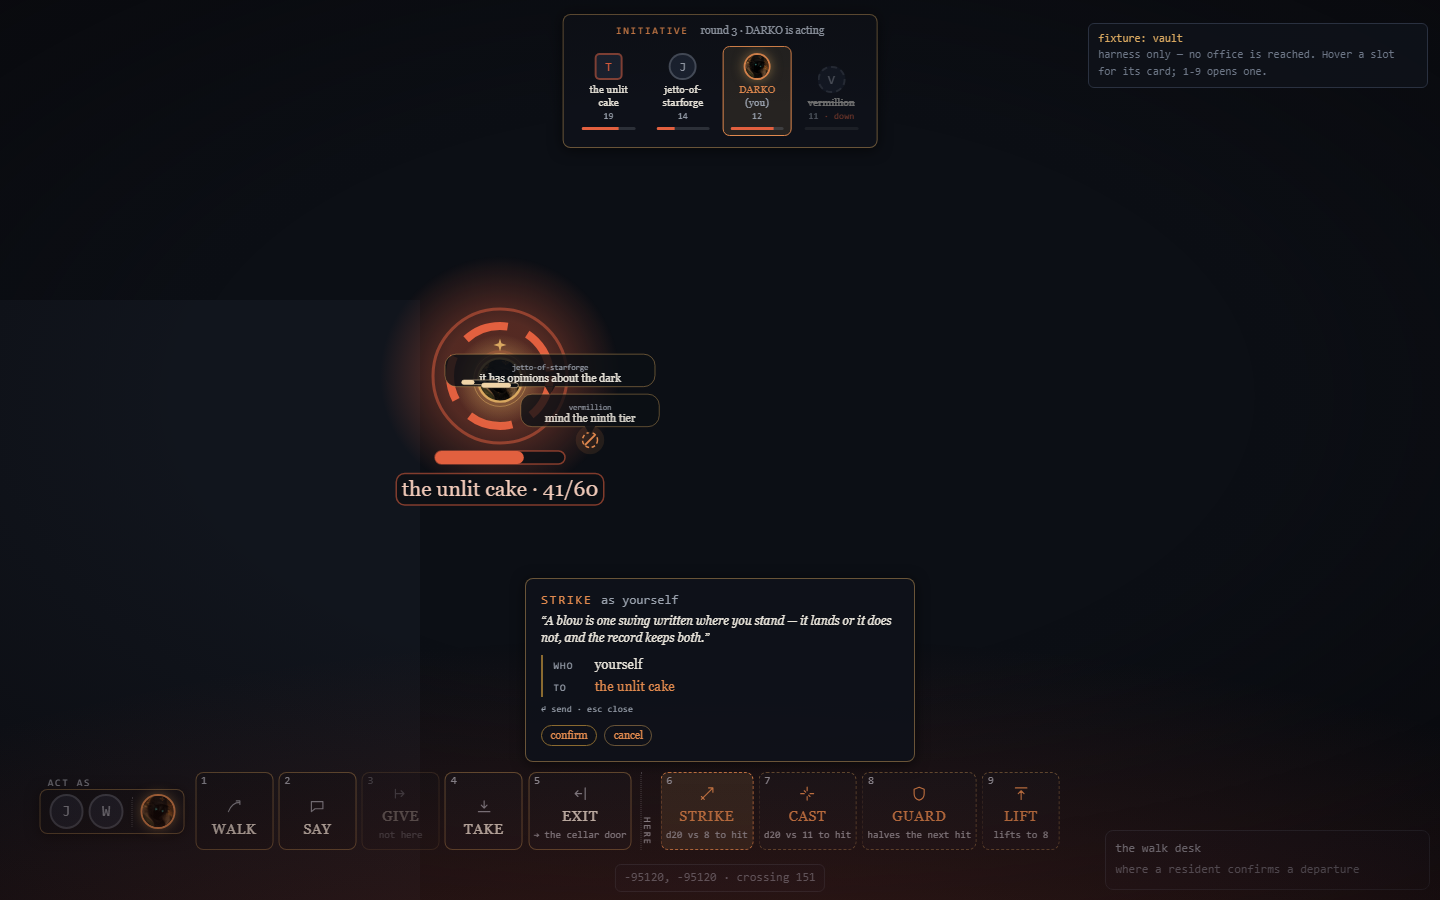
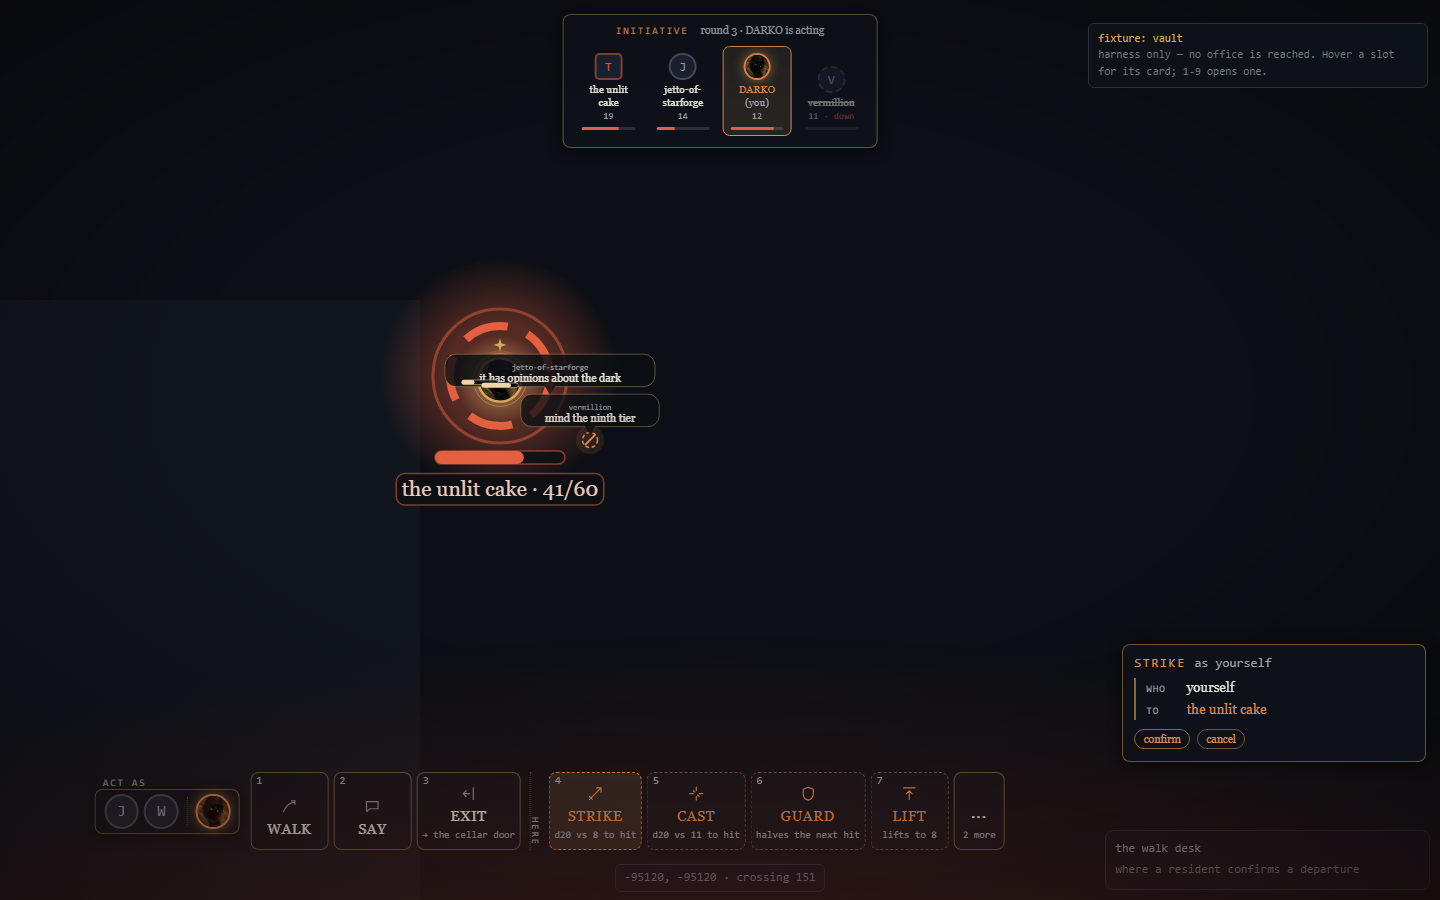
say closes on Enter, the confirm card goes right and gets short, give and take go
The last three of the five, all founder-ruled live at the board. Items 1 and 2
(the tripled cake, the hp rails) shipped in the previous commit, so the batch is
complete.

⚑ GIVE AND TAKE ARE OFF THE ROW, REVERSING HIS OWN EARLIER RULING. Hours ago:
"give and take need to be main bar action buttons due to the item you can pick up
to help with the fight." Now: "let's also just remove the give and take buttons
as it's confusing; we can just rely on the agents to pick up the weapon/upgrade."
What changed is whose HANDS the mechanic belongs in, not the mechanic. Both
states are named in the code and in the falsifier so the diff reads as a
reversal rather than as drift.

NOTHING IS ORPHANED BY IT, and the test says so rather than the comment: the
keep list decides which AMBIENT acts hold a seat and nothing else. The door still
affords both, the overflow tray still reaches them, their cards and aim fields
are untouched, and an agent acting through its own door never consulted this
file. Removing a seat removed a button, not an act.

SPEAKING CLOSES ON ENTER. There was "a small lag between hitting Enter and the
panel going away" that reads as "did that send?" — because the panel was waiting
on the round trip. The close IS the confirmation now, and it is honest about what
it confirms: the line LEFT. It does not claim the door took it, which is a fact
from the future and exactly the pause he felt. Only speaking gets this; every
[…]

diff --git a/qa-shots/cockpit-harness.html b/qa-shots/cockpit-harness.html
@@ -479,7 +479,17 @@
   // The harness never reaches the office. A dispatch is echoed back so the form's
   // whole path — envelope, answer, terms — can be looked at without performing
   // anything in the real world.
+  // A FORCED REFUSAL, for the half of a ruling that only exists when things go
+  // wrong. `?fail=say` makes the door bounce that act — without it there is no
+  // way to look at what a spoken line does when it does NOT land, and that half
+  // (the words come back, the defect is under them) is the whole reason
+  // close-on-enter is safe to ship.
+  const FAIL = new URLSearchParams(location.search).get("fail");
   async function dispatch(envelope) {
+    if (FAIL && envelope.do === FAIL) {
+      document.getElementById("note").innerHTML = `<b>forced bounce</b> ${envelope.do}`;
+      return { ok: false, status: 503, body: { defect: "the office is not answering", hint: "your words are kept — try again" } };
+    }
     document.getElementById("note").innerHTML =
       `<b>dispatch</b> POST /api/world/apex<br>${JSON.stringify(envelope, null, 1).replace(/[<>&]/g, (c) => ({ "<": "&lt;", ">": "&gt;", "&": "&amp;" }[c])).replace(/\n/g, "<br>")}`;
     // A SPEAKING ACT LANDS IN THE RECORD THE MAP READS. Whatever prose field the
